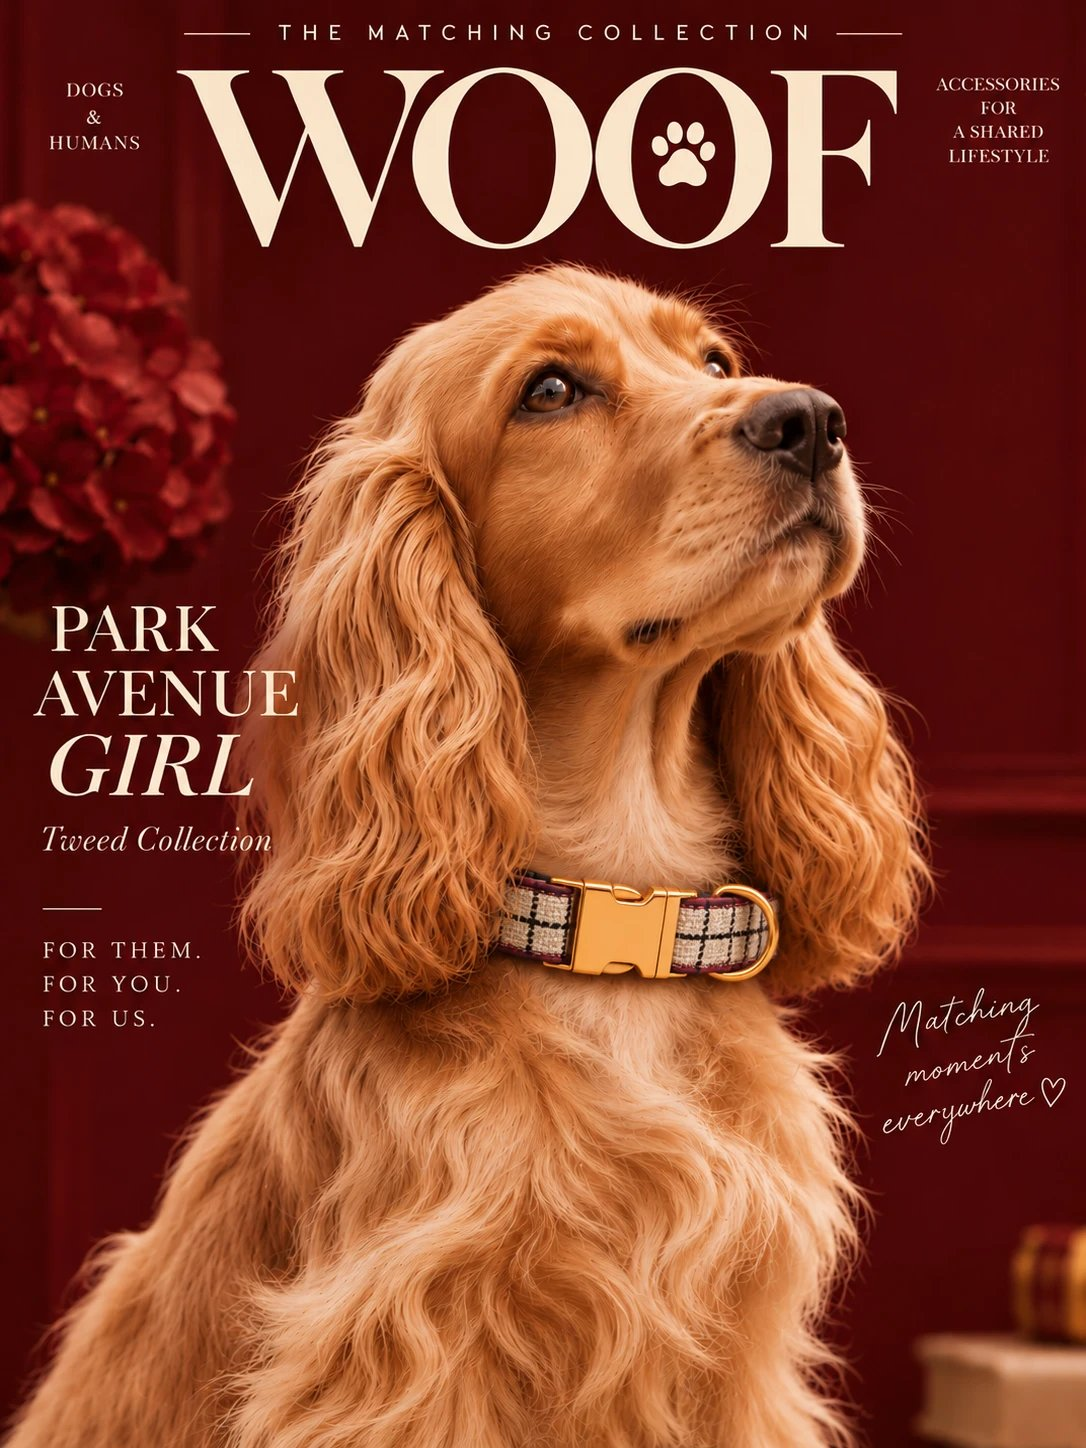
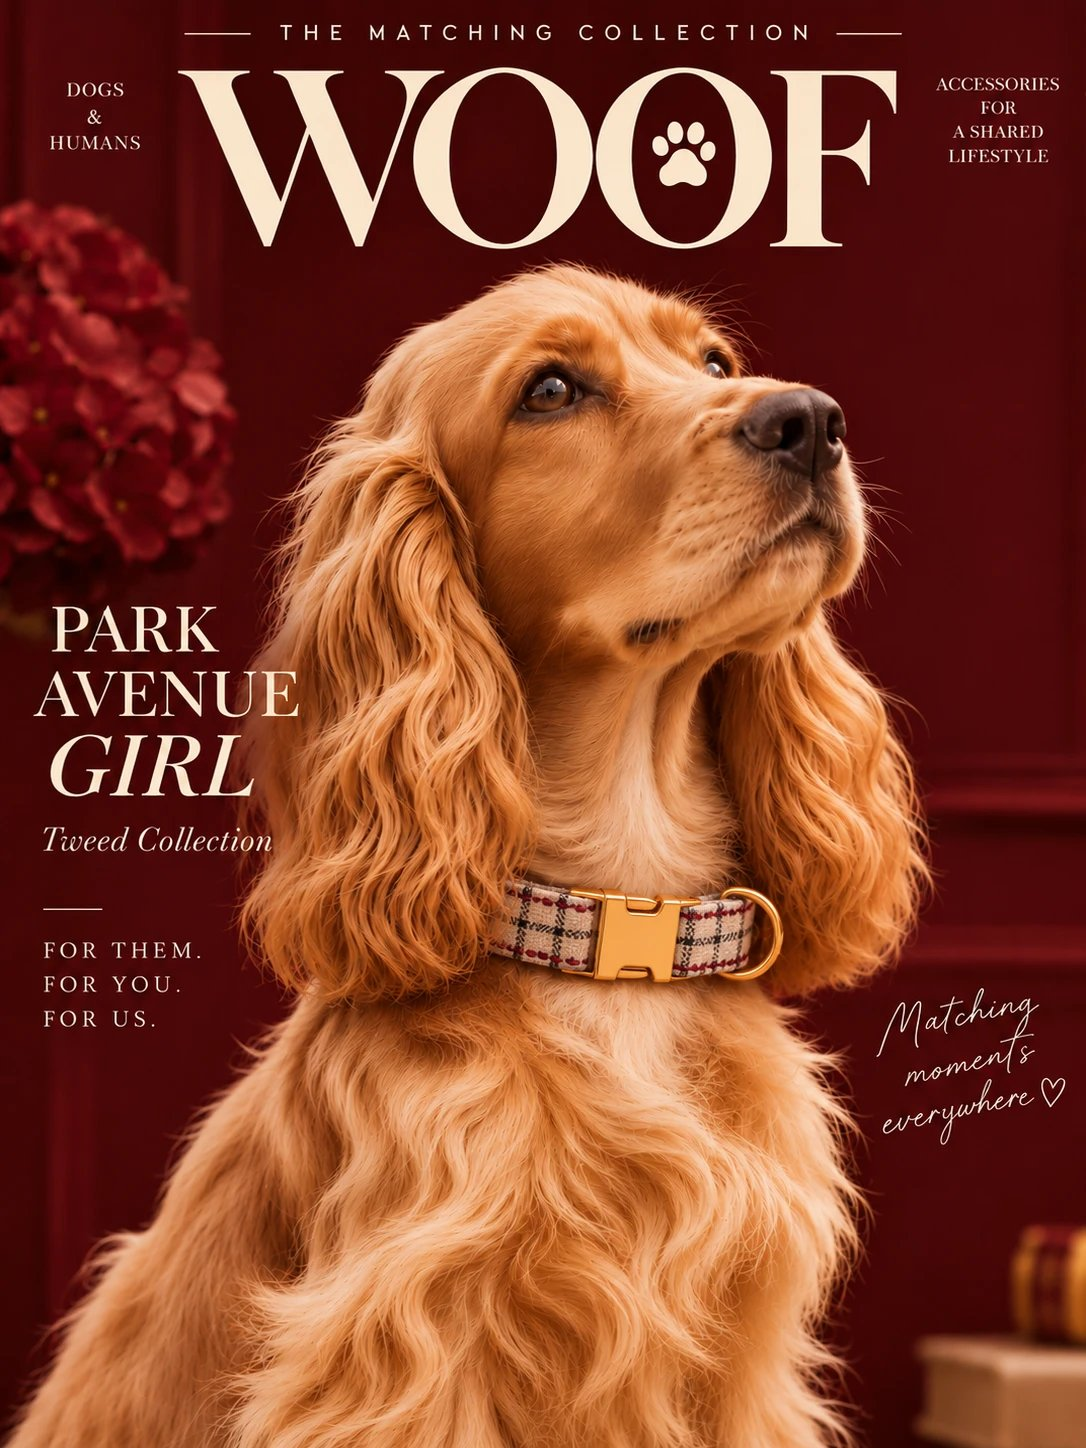
Park Avenue Girl: correct cover image
Claude-Session: https://claude.ai/code/session_012166H4GtspBoYRTcCSM5v6

diff --git a/js/products.js b/js/products.js
@@ -36,7 +36,7 @@ window.WOOF_COLLECTIONS = [
     status: "coming-soon",
     setPrice: "€45",
     image: "images/couverture-park-avenue-girl.jpg",
-    alt: "WOOF magazine cover: Park Avenue Girl, tweed collection — a cocker spaniel wearing a cream and black checked tweed collar with golden buckle"
+    alt: "WOOF magazine cover: Park Avenue Girl, tweed collection — a cocker spaniel wearing a cream tweed collar checked in black and burgundy, with golden buckle"
   },
   {
     id: "denim-club",
